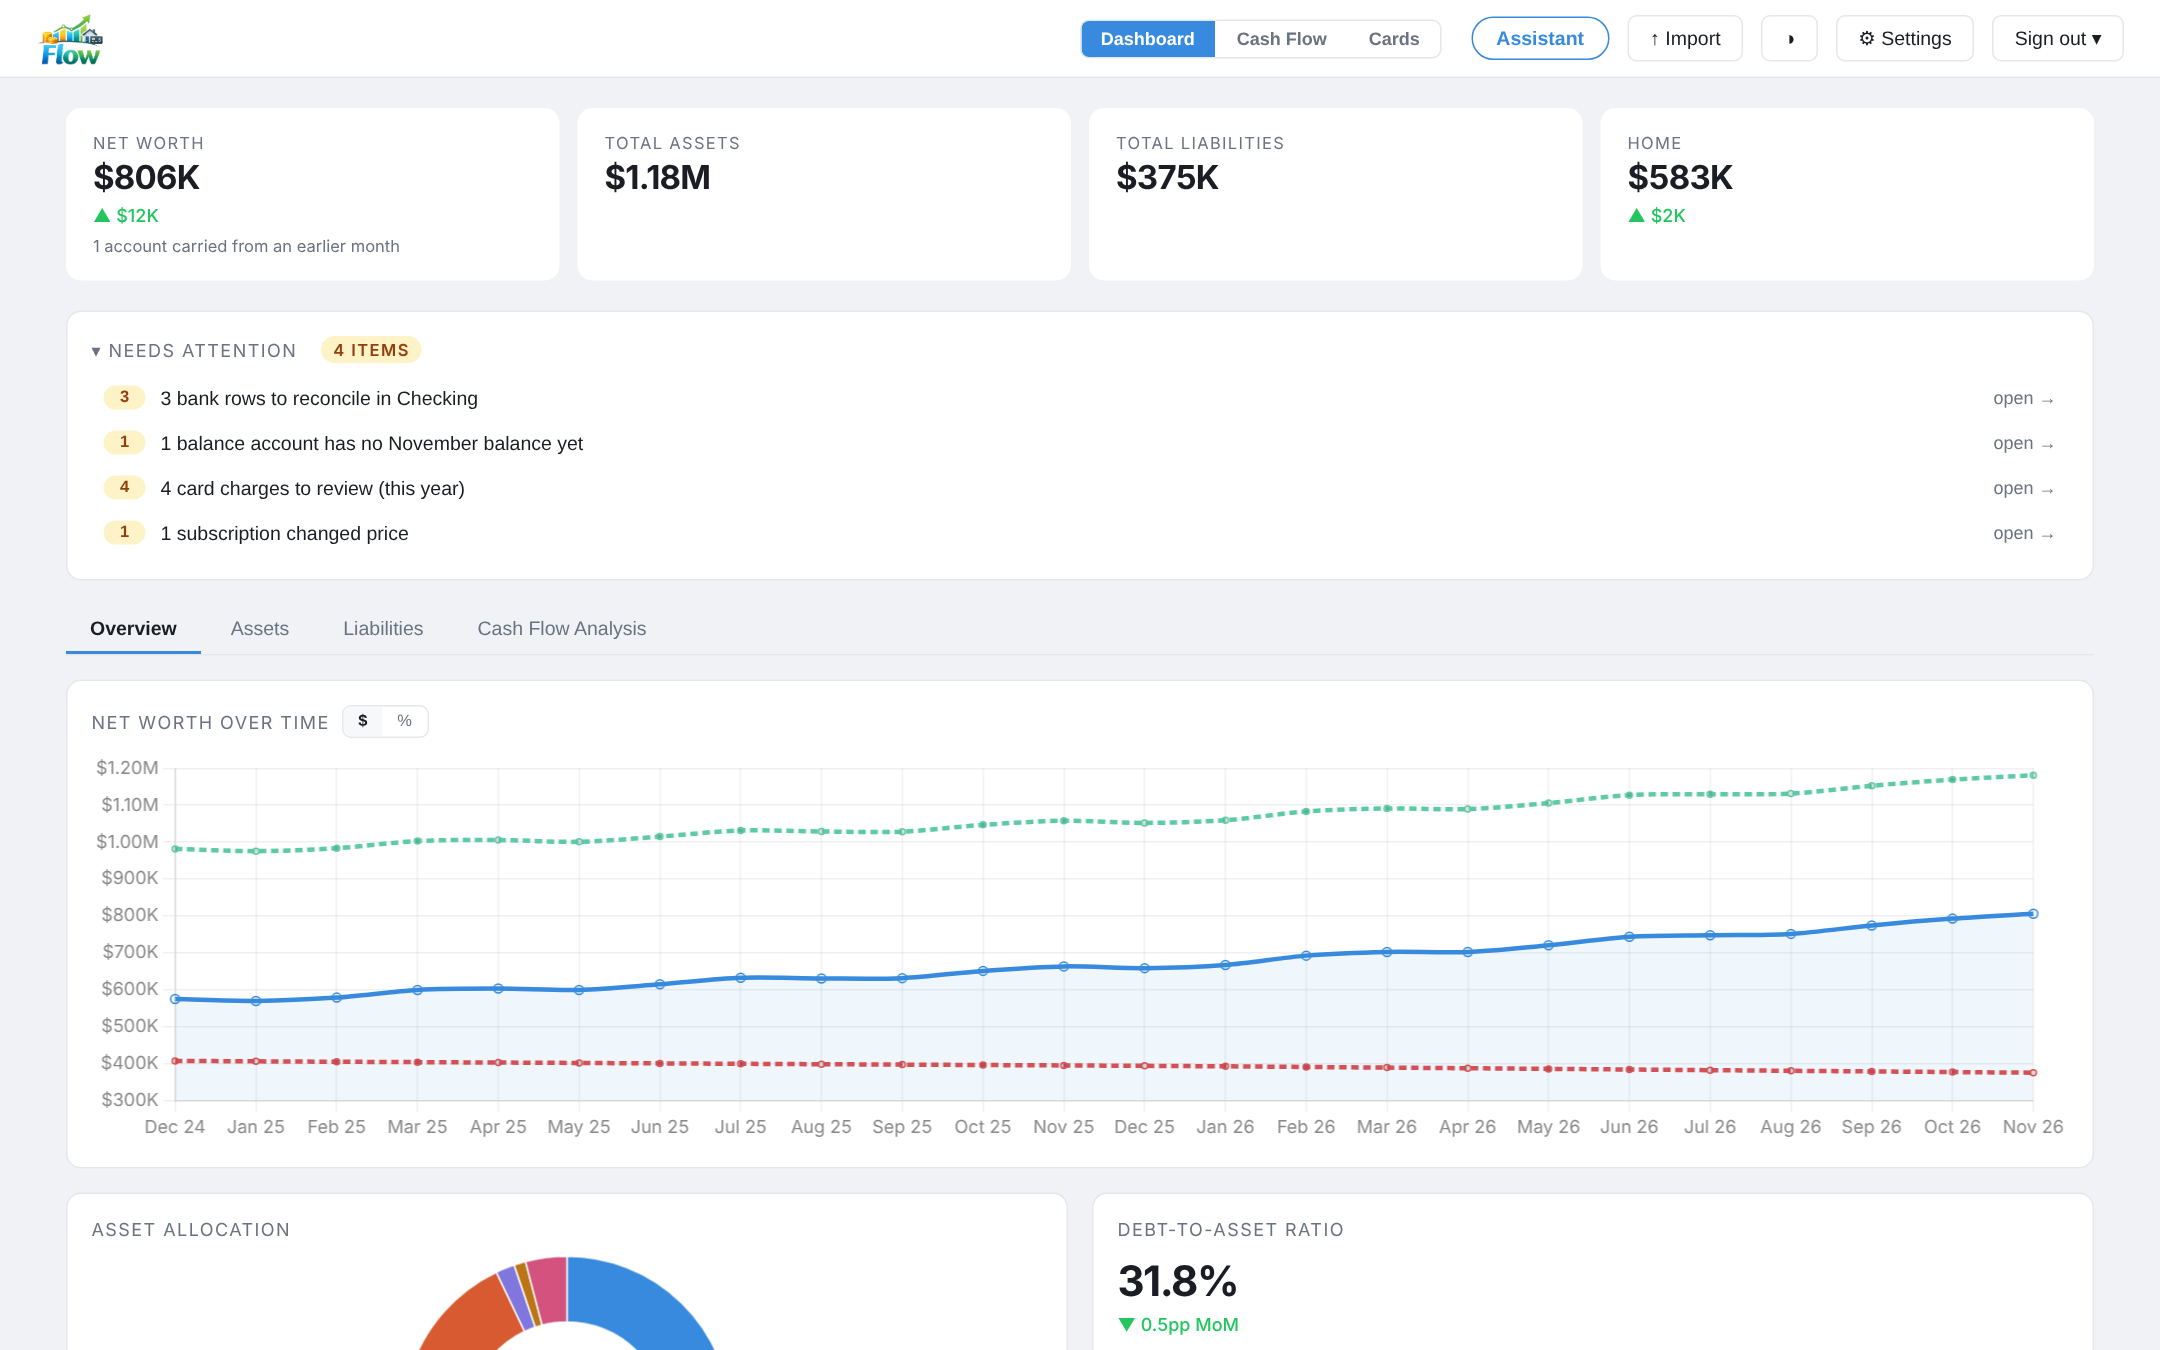
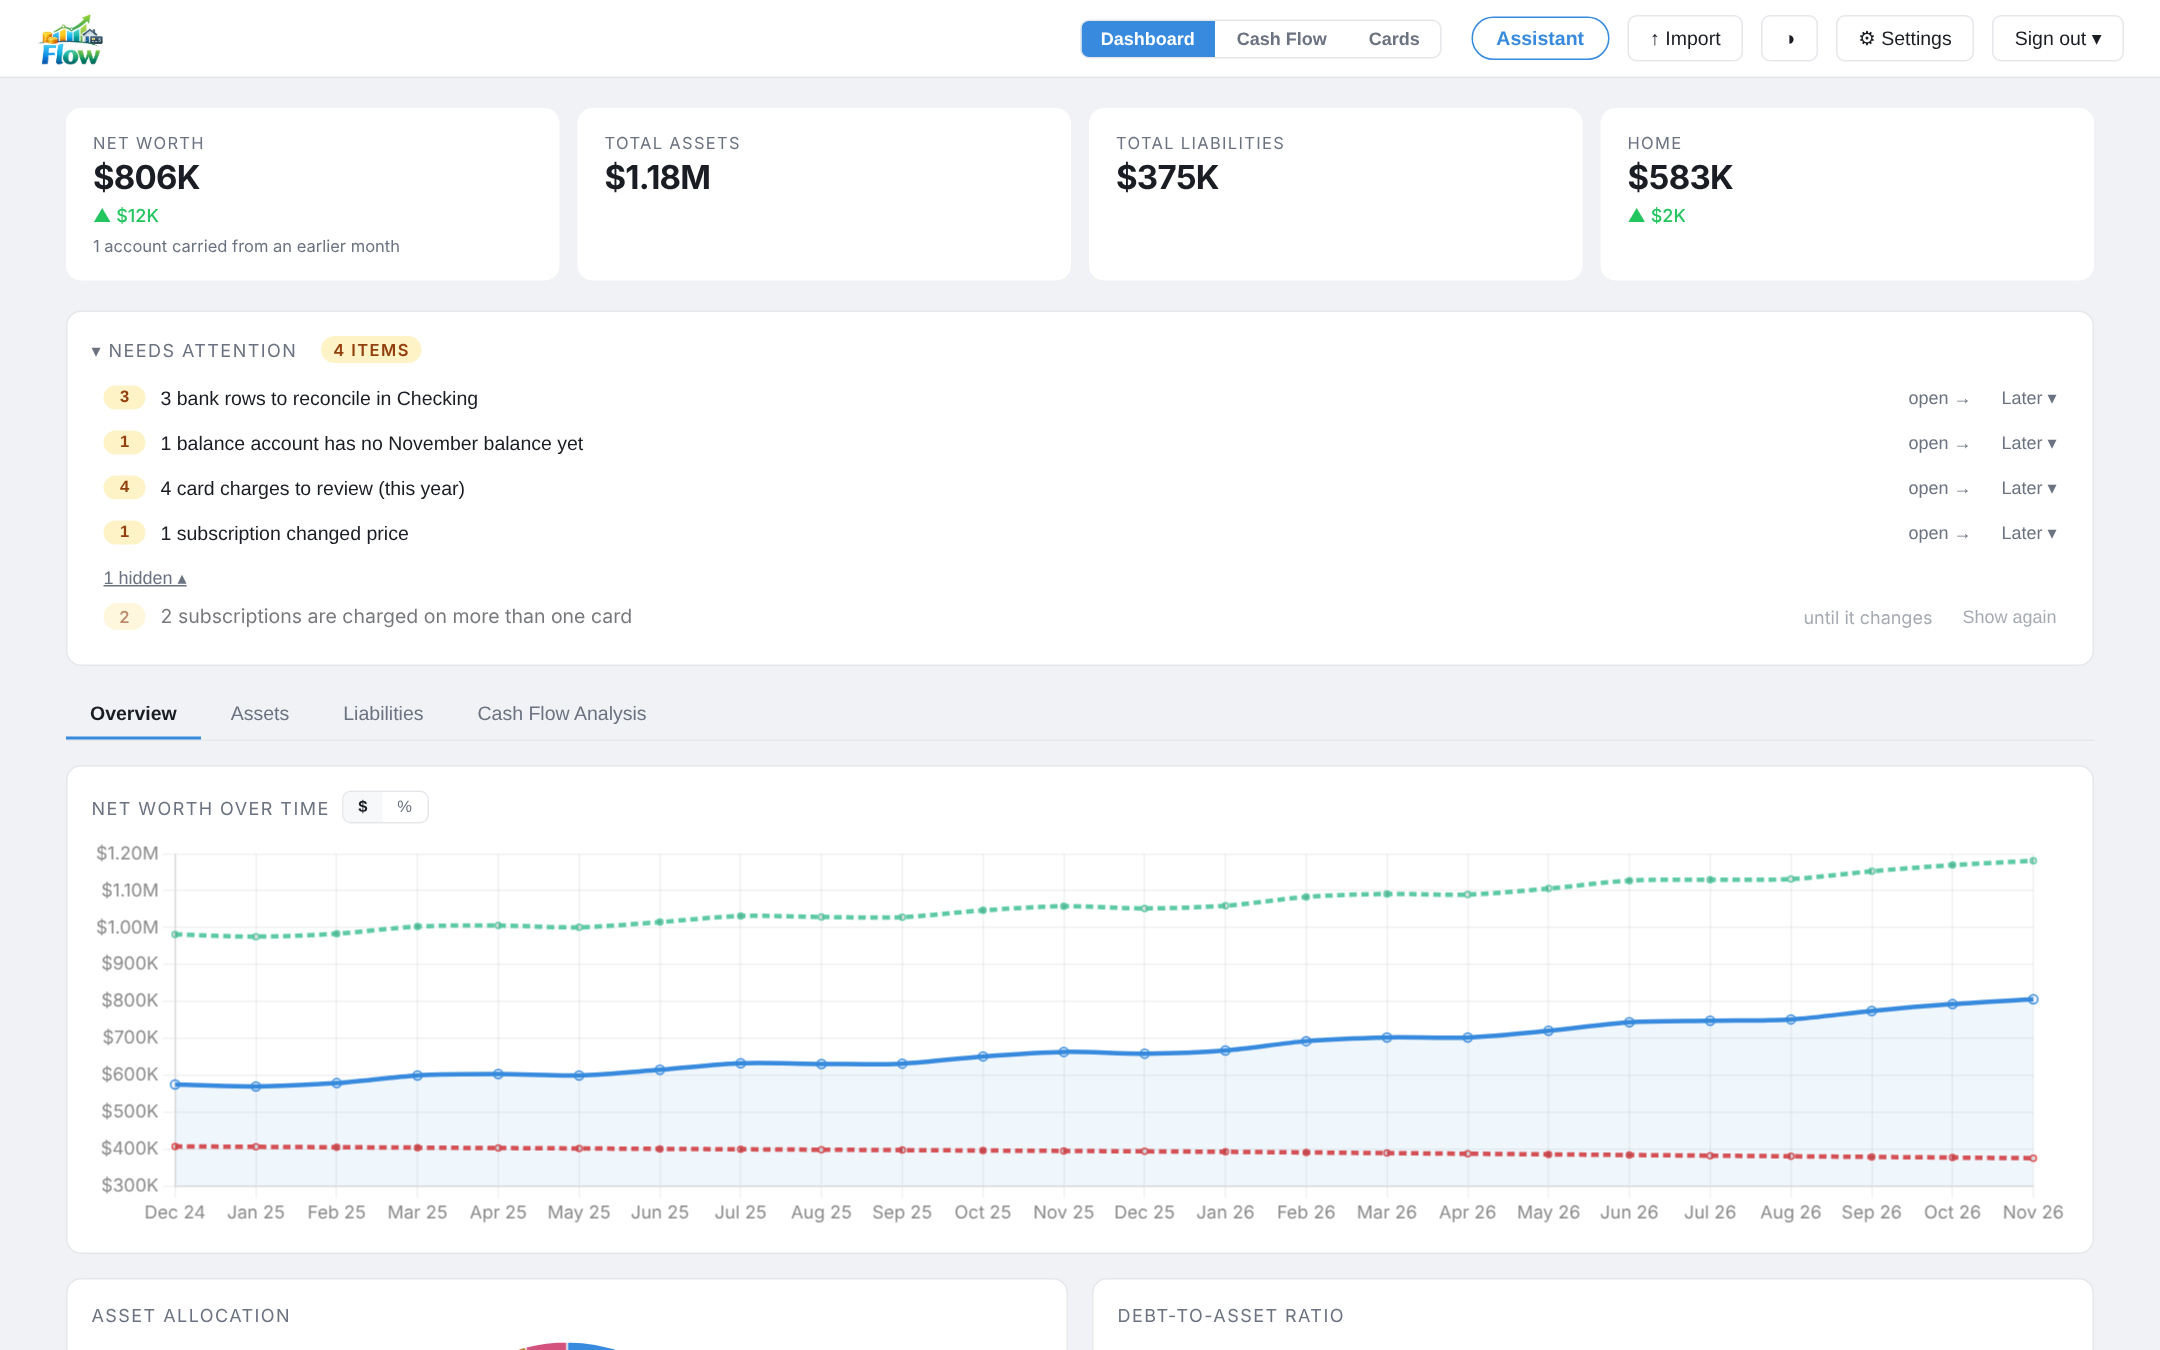
Label the snooze control "Later" and show it in the Dashboard screenshot
The ⏾ symbol is missing from some fonts; "Later ▾" says what the menu does. The README
screenshot now shows the Later controls and the hidden list under the panel.

Claude-Session: https://claude.ai/code/session_01LxiBHtrxDYcqhpWDVEYTao

diff --git a/frontend/index.html b/frontend/index.html
@@ -2153,7 +2153,7 @@ function renderAttention(items, hidden = []) {
   count.classList.toggle('hidden', !(collapsed && items.length));
   const row = i => `<div class="attention-item"><button type="button" class="attention-row" onclick="askNavigate(${escHtml(JSON.stringify(i.nav || null))})">
       <span class="acct-behind-count">${Number(i.count) || 0}</span><span>${escHtml(String(i.text))}</span><span class="go">open →</span></button>
-      <button type="button" class="attention-snooze" title="Remind me later or ignore" aria-haspopup="true" onclick="attentionMenu(event, ${escHtml(JSON.stringify(String(i.key || i.kind)))})">⏾ ▾</button></div>`;
+      <button type="button" class="attention-snooze" title="Remind me later or ignore" aria-haspopup="true" onclick="attentionMenu(event, ${escHtml(JSON.stringify(String(i.key || i.kind)))})">Later ▾</button></div>`;
   const hiddenRow = i => `<div class="attention-item muted"><span class="attention-row" style="cursor:default"><span class="acct-behind-count">${Number(i.count) || 0}</span><span>${escHtml(String(i.text))}</span>
       <span class="go">${i.snoozed_until ? 'until ' + escHtml(periodLabelDay(i.snoozed_until)) : 'until it changes'}</span></span>
       <button type="button" class="attention-snooze" onclick="attentionUnsnooze(${escHtml(JSON.stringify(String(i.key || i.kind)))})">Show again</button></div>`;

diff --git a/README.md b/README.md
@@ -29,7 +29,7 @@ Change the password under **Settings → Account** and the AI settings under **S
 ## Features
 
 **Dashboard**
-- **Needs attention**: one panel at the top listing what is waiting, each row opening the place to act: bank rows to reconcile or matches to confirm in a cash account, accounts with no balance for the month or no statement in 40 days, payees without a role, card charges to review, subscriptions overdue, with a price change or on two cards, import formats not tried yet, AI paused, the daily backup off or no backup in a week, and a newer Flow release. Each row can be put off (remind me tomorrow, in a week or in a month) or ignored until something new happens on it; a hidden row comes back on its own when its count grows, and "hidden" at the bottom of the panel shows them again
+- **Needs attention**: one panel at the top listing what is waiting, each row opening the place to act: bank rows to reconcile or matches to confirm in a cash account, accounts with no balance for the month or no statement in 40 days, payees without a role, card charges to review, subscriptions overdue, with a price change or on two cards, import formats not tried yet, AI paused, the daily backup off or no backup in a week, and a newer Flow release. Each row's **Later ▾** menu puts it off (remind me tomorrow, in a week or in a month) or ignores it until something new happens on it; a hidden row comes back on its own when its count grows, and "hidden" at the bottom of the panel shows them again
 - Net worth chart with month-over-month history
 - Asset allocation breakdown (investments, real estate, cash, etc.)
 - Liability tracking

diff --git a/CLAUDE.md b/CLAUDE.md
@@ -318,7 +318,7 @@ CI (`.github/workflows/ci.yml`) runs the same on every pull request and push to 
   one `flow_settings` JSON row (`attention.SNOOZE_KEY`, read back through `clean_snoozes` since it travels in
   backups), `DELETE /api/attention/snooze/{key}` lifts it. `split_snoozed` hides an item while its date hasn't
   passed (no date = ignore until it changes) AND its count hasn't grown; `prune_snoozes` drops expired ones on
-  every write. The reply is `{items, hidden}`; the panel's ⏾ ▾ menu and the "N hidden" footer are in `index.html`.
+  every write. The reply is `{items, hidden}`; the panel's "Later ▾" menu and the "N hidden" footer are in `index.html`.
 - **CSV exports** (`exports.py`): every export goes through `exports.csv_response(header, rows, name)`, which
   writes floats with two decimals, ints as they are, booleans as yes/blank, None blank and text through
   `spreadsheet_safe` (a leading `'` before = + - @, so an amount must be a number, never a string: a "-12.50"
